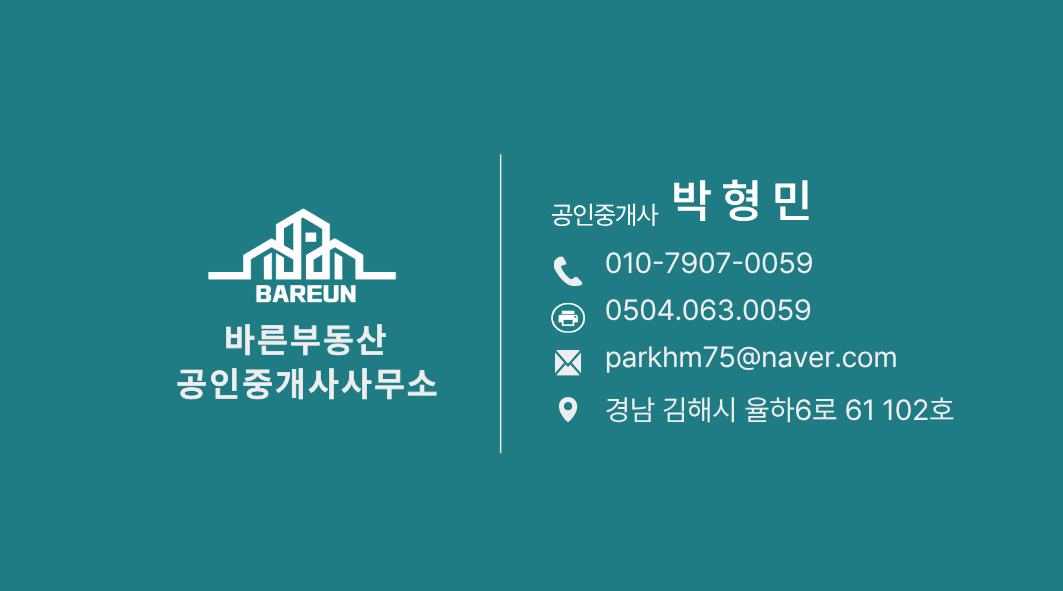
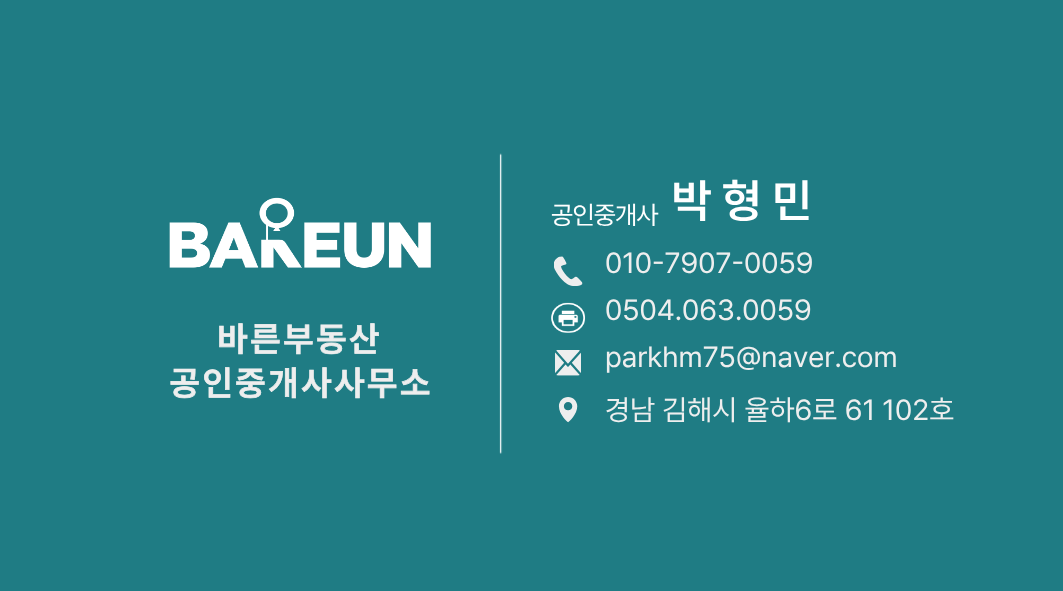
fix: update business card social preview image and URL

Changed region(s): [[0.1552, 0.335, 0.4036, 0.5178], [0.1552, 0.5482, 0.4346, 0.7005]]

diff --git a/card.html b/card.html
@@ -1,4 +1,4 @@
-<!doctype html><html lang="ko"><head><meta charset="utf-8"><meta name="format-detection" content="telephone=no, address=no, email=no"><meta name="viewport" content="width=device-width, initial-scale=1.0, maximum-scale=1.0, user-scalable=no"><title>바른부동산 공인중개사사무소 | 공인중개사 박형민</title><meta name="description" content="율하·장유 상가전문 부동산 | 010-7907-0059"><meta property="og:type" content="website"><meta property="og:locale" content="ko_KR"><meta property="og:site_name" content="바른부동산공인중개사사무소"><meta property="og:title" content="바른부동산 공인중개사사무소 | 공인중개사 박형민"><meta property="og:description" content="율하·장유 상가전문 부동산 | 010-7907-0059"><meta property="og:url" content="https://bareun-hub.github.io/bareun-realestate/"><link rel="canonical" href="https://bareun-hub.github.io/bareun-realestate/"><meta property="og:image" content="https://bareun-hub.github.io/bareun-realestate/og-image.png"><style>/* 원본 명함 스타일: 청록 바탕 · 화이트 로고 · 화이트 카드: 공통 색상·규격은 이곳에서 수정.
+<!doctype html><html lang="ko"><head><meta charset="utf-8"><meta name="format-detection" content="telephone=no, address=no, email=no"><meta name="viewport" content="width=device-width, initial-scale=1.0, maximum-scale=1.0, user-scalable=no"><title>바른부동산 공인중개사사무소 | 공인중개사 박형민</title><meta name="description" content="율하·장유 상가전문 부동산 | 010-7907-0059"><meta property="og:type" content="website"><meta property="og:locale" content="ko_KR"><meta property="og:site_name" content="바른부동산공인중개사사무소"><meta property="og:title" content="바른부동산 공인중개사사무소 | 공인중개사 박형민"><meta property="og:description" content="율하·장유 상가전문 부동산 | 010-7907-0059"><meta property="og:url" content="https://bareun-hub.github.io/bareun-realestate/card.html"><link rel="canonical" href="https://bareun-hub.github.io/bareun-realestate/card.html"><meta property="og:image" content="https://bareun-hub.github.io/bareun-realestate/og-card-20261028.png"><style>/* 원본 명함 스타일: 청록 바탕 · 화이트 로고 · 화이트 카드: 공통 색상·규격은 이곳에서 수정.
    업체 데이터는 business.config.json, 생성된 dist/는 수정하지 않습니다. */
 :root {
   color-scheme: light;
